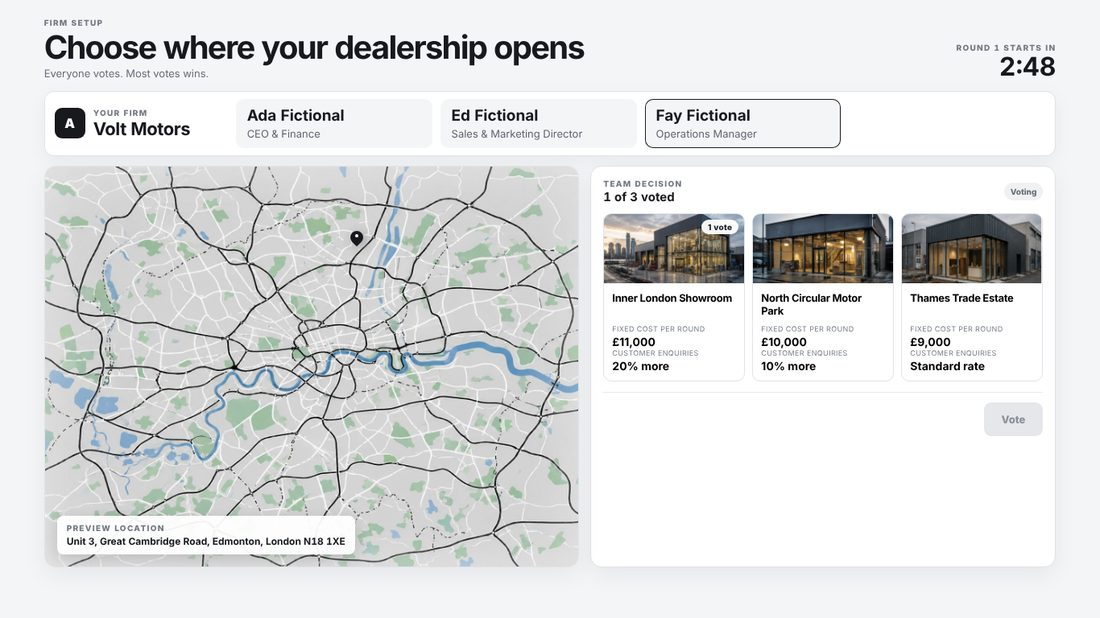
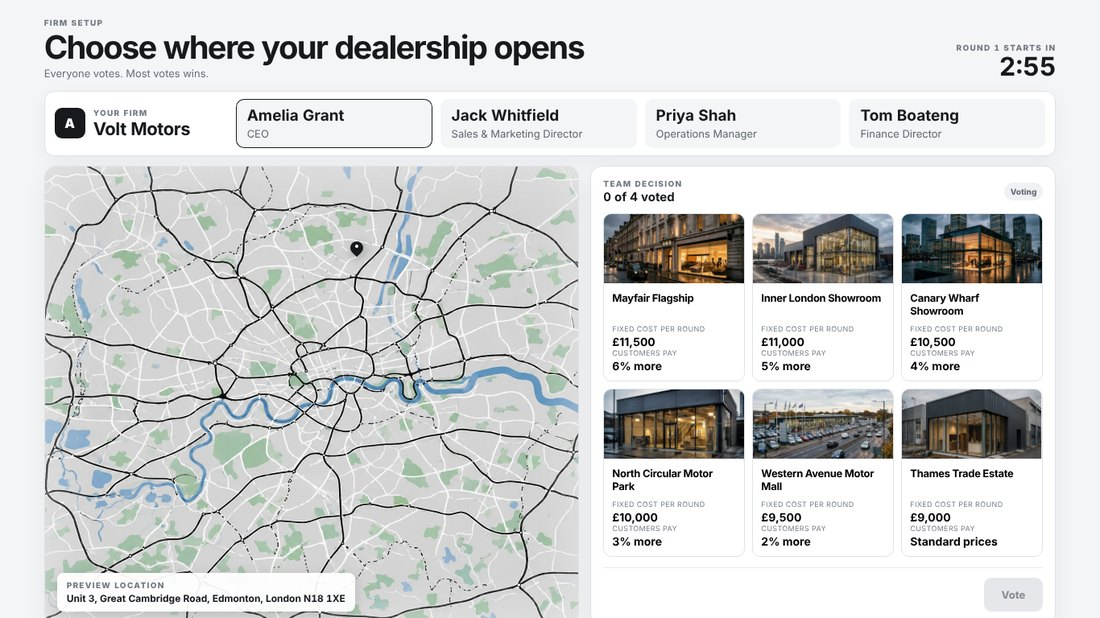
Site: how-a-lesson-runs pictures from the current game (six locations, the new deal card) and a step for the margin check (owner 25.10.2026)
Claude-Session: https://claude.ai/code/session_01Np2n7mwxyzcaQWByNZ1ReD

diff --git a/index.html b/index.html
@@ -672,25 +672,30 @@
       <li class="tbs-howto__step">
         <span class="tbs-howto__dot">2</span>
         <div class="tbs-howto__text"><h3>Each firm votes where to open</h3><p>Everyone votes. Most votes wins.</p></div>
-        <img class="tbs-howto__img" src="/assets/tbs-web/howto/2-location.jpg" alt="Each firm votes where to open" loading="lazy" width="1100" height="618">
+        <img class="tbs-howto__img" src="/assets/tbs-web/howto/2-location.jpg?v=20261025" alt="Each firm votes where to open" loading="lazy" width="1100" height="618">
       </li>
       <li class="tbs-howto__step">
         <span class="tbs-howto__dot">3</span>
         <div class="tbs-howto__text"><h3>Everyone has a role and a job</h3><p>Students buy, price and negotiate face to face.</p></div>
-        <img class="tbs-howto__img" src="/assets/tbs-web/howto/3-deal.jpg" alt="Everyone has a role and a job" loading="lazy" width="1100" height="729">
+        <img class="tbs-howto__img" src="/assets/tbs-web/howto/3-deal.jpg?v=20261025" alt="Everyone has a role and a job" loading="lazy" width="1100" height="618">
       </li>
       <li class="tbs-howto__step">
         <span class="tbs-howto__dot">4</span>
+        <div class="tbs-howto__text"><h3>Every deal checks the margin</h3><p>Students work out the margin in pounds and per cent before they sell.</p></div>
+        <img class="tbs-howto__img" src="/assets/tbs-web/howto/3b-margin.jpg?v=20261025" alt="Every deal checks the margin" loading="lazy" width="1100" height="618">
+      </li>
+      <li class="tbs-howto__step">
+        <span class="tbs-howto__dot">5</span>
         <div class="tbs-howto__text"><h3>You see every firm live</h3><p>Pause and Stop are one click away.</p></div>
         <img class="tbs-howto__img" src="/assets/tbs-web/howto/4-teacher.jpg" alt="You see every firm live" loading="lazy" width="1100" height="503">
       </li>
       <li class="tbs-howto__step">
-        <span class="tbs-howto__dot">5</span>
+        <span class="tbs-howto__dot">6</span>
         <div class="tbs-howto__text"><h3>Questions, then the winner</h3><p>Six questions for your class, then the podium.</p></div>
         <img class="tbs-howto__img" src="/assets/tbs-web/howto/5-winner.jpg" alt="Questions, then the winner" loading="lazy" width="1100" height="505">
       </li>
       <li class="tbs-howto__step">
-        <span class="tbs-howto__dot">6</span>
+        <span class="tbs-howto__dot">7</span>
         <div class="tbs-howto__text"><h3>Every student gets a report</h3><p>You download the class pack.</p></div>
         <img class="tbs-howto__img" src="/assets/tbs-web/howto/6-report.jpg" alt="Every student gets a report" loading="lazy" width="1100" height="767">
       </li>
